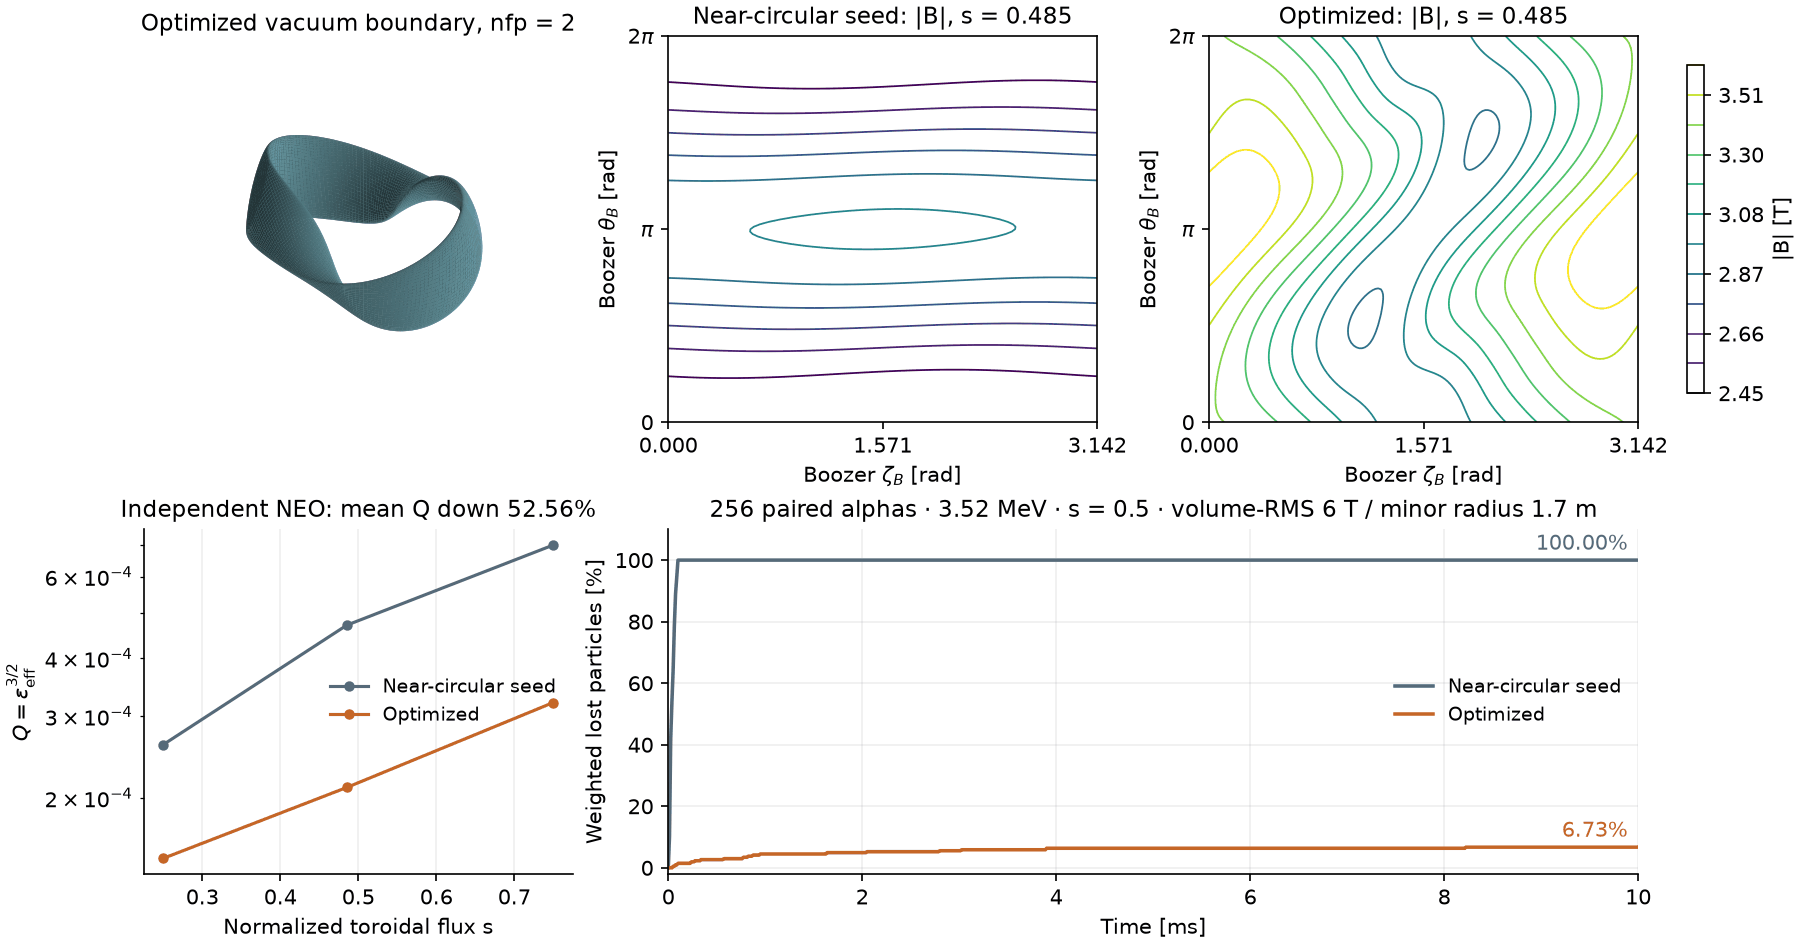
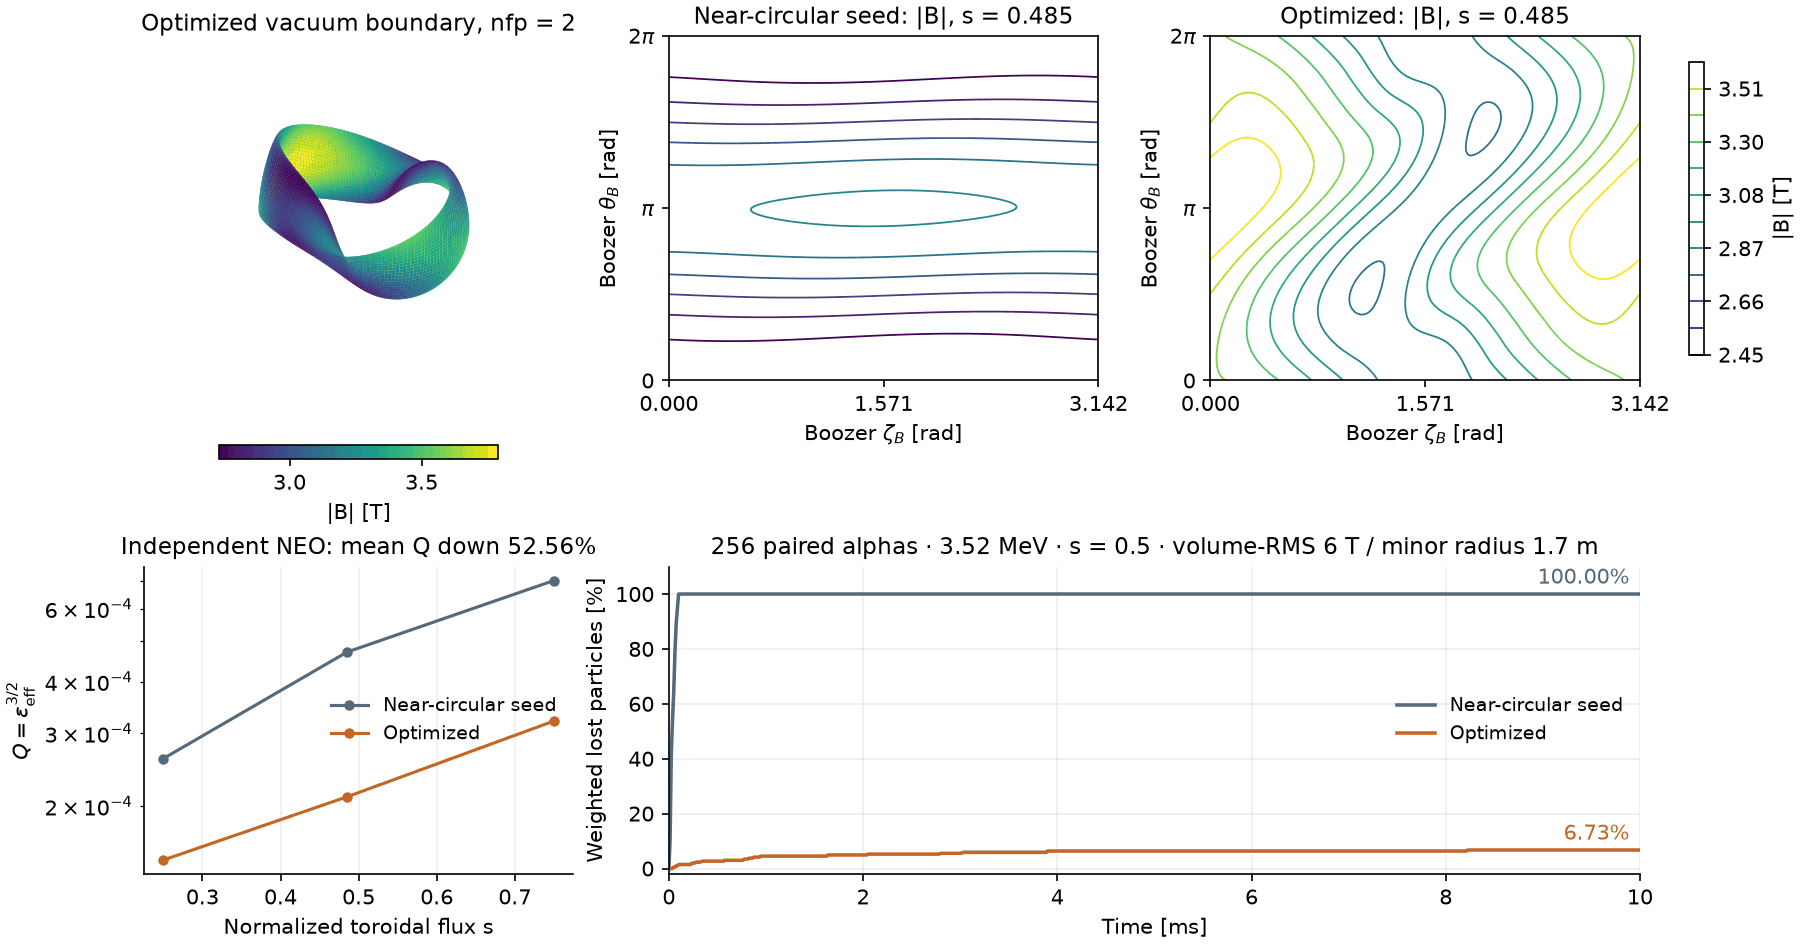
Show all field periods and confinement comparisons in the README

diff --git a/docs/_static/figures/sources/make_low_transport_figure.py b/docs/_static/figures/sources/make_low_transport_figure.py
@@ -53,6 +53,9 @@ def extract(root):
             arrays[key] = f.variables[key].data[-1].copy()
         for key in ("xm", "xn"):
             arrays[key] = f.variables[key].data.copy()
+        arrays["edge_B"] = 1.5*f.variables["bmnc"].data[-1].copy()-.5*f.variables["bmnc"].data[-2].copy()
+        arrays["m_B"] = f.variables["xm_nyq"].data.copy()
+        arrays["n_B"] = f.variables["xn_nyq"].data.copy()
     arrays["source_sha256"] = np.array(json.dumps(hashes, sort_keys=True))
     return arrays
 
@@ -68,8 +71,12 @@ def draw(z):
     R = np.sum(z["rmnc"]*np.cos(phase), axis=-1)
     Z = np.sum(z["zmns"]*np.sin(phase), axis=-1)
     X, Y = R*np.cos(phi), R*np.sin(phi)
-    boundary.plot_surface(X, Y, Z, color="#689ba5", linewidth=0, antialiased=True,
-                          rcount=193, ccount=65, shade=True)
+    B = np.sum(z["edge_B"]*np.cos(theta[..., None]*z["m_B"]-phi[..., None]*z["n_B"]), axis=-1)
+    norm = matplotlib.colors.Normalize(B.min(), B.max())
+    boundary.plot_surface(X, Y, Z, facecolors=plt.cm.viridis(norm(B)), linewidth=0,
+                          rcount=193, ccount=65, shade=False)
+    fig.colorbar(plt.cm.ScalarMappable(norm=norm, cmap="viridis"), ax=boundary,
+                 orientation="horizontal", shrink=.65, pad=0, label="|B| [T]")
     boundary.set_box_aspect((np.ptp(X), np.ptp(Y), np.ptp(Z)))
     boundary.view_init(elev=35, azim=-45)
     boundary.set_axis_off()
@@ -109,10 +116,76 @@ def draw(z):
         ax.spines[["top", "right"]].set_visible(False)
         ax.grid(alpha=.2)
         ax.legend(frameon=False, loc="center right")
+    save(fig, OUT)
+
+
+def save(fig, path):
     fig.canvas.draw()
     Image.fromarray(np.asarray(fig.canvas.buffer_rgba())[..., :3]).quantize(256).save(
-        OUT, lossless=True, method=6)
-    print(f"Wrote {OUT} ({OUT.stat().st_size} bytes)")
+        path, lossless=True, method=6)
+    plt.close(fig)
+    print(f"Wrote {path} ({path.stat().st_size} bytes)")
+
+
+def comparisons(root):
+    """Show every NFP trial and the completed independent family measurements."""
+    from scipy.io import netcdf_file
+
+    fig, axes = plt.subplots(3, 4, figsize=(14, 10), dpi=150, layout="constrained")
+    statuses = ("Targets missed", "NEO improved", "NEO worsened", "NEO improved")
+    theta, phi = np.meshgrid(np.linspace(0, 2*np.pi, 81), np.linspace(0, 2*np.pi, 81), indexing="ij")
+    for col, nfp in enumerate(range(1, 5)):
+        folder = root.parent / "mapped" / f"mirror-nfp{nfp}" / "low_transport"
+        record = json.loads((folder / "summary.json").read_text())
+        selected = "selected_evaluation" in record
+        stem = "trial" if selected else "terminal"
+        picture = folder / (f"{stem}_boundary3d.png" if selected else f"terminal/{stem}_boundary3d.png")
+        axes[0, col].imshow(plt.imread(picture)); axes[0, col].axis("off")
+        axes[0, col].set_title(f"NFP {nfp}: {statuses[col]}")
+        with netcdf_file(folder / f"wout_{stem}.nc", mmap=False) as f:
+            m, n = (f.variables[k].data.copy() for k in ("xm_nyq", "xn_nyq"))
+            coefficients = f.variables["bmnc"].data.copy()
+        row = round((len(coefficients)-1)*.5+.5)
+        B = np.sum(coefficients[row]*np.cos(theta[..., None]*m-phi[..., None]*n/nfp), axis=-1)
+        contour = axes[1, col].contour(phi/nfp, theta, B, levels=14, cmap="viridis", linewidths=.8)
+        axes[1, col].set(xlabel="VMEC toroidal angle", ylabel="VMEC poloidal angle",
+                         title="Mid-radius |B| [T]")
+        fig.colorbar(contour, ax=axes[1, col], shrink=.75)
+        cost = np.array([record["evaluations"][0]["cost"]]+[r["cost"] for r in record["iterations"]])
+        axes[2, col].semilogy(np.arange(len(cost)), cost/cost[0], color="#306d86")
+        axes[2, col].set(xlabel="Accepted iteration", ylabel="Total objective / initial",
+                         title="Optimization history")
+        axes[2, col].grid(alpha=.2)
+    save(fig, OUT.with_name("readme_low_transport_nfp.webp"))
+
+    data = json.loads((root / "summary.json").read_text())["cases"]
+    fig, axes = plt.subplots(1, 2, figsize=(13, 6), dpi=150)
+    fig.subplots_adjust(left=.07, right=.98, top=.86, bottom=.3, wspace=.25)
+    handles, labels, missing = [], [], []
+    for name, label in (("seed4", "Seed4"), ("QA", "QA4"), ("QH", "QH4"),
+            ("QP", "QP4"), ("QI", "QI4"), ("mapped4", "Mapped4"),
+            ("seed2", "Seed2"), ("QA_nfp2", "QA2"), ("mapped2", "Mapped2")):
+        row = data.get(name, {})
+        if not row.get("Q"):
+            missing.append(label+": transport and particles"); continue
+        line, = axes[0].semilogy(row["actual_s"], np.array(row["Q"])**(2/3), "o-", label=label)
+        handles.append(line); labels.append(label)
+        particle = row.get("particles", {})
+        if particle.get("status") == "completed":
+            axes[1].plot(1000*np.array(particle["times_s"]), 100*np.array(particle["weighted_loss_curve"]),
+                         color=line.get_color())
+        else:
+            missing.append(label+": particles")
+    axes[0].set(xlabel="Normalized toroidal flux s", ylabel=r"Effective ripple $\epsilon_{\rm eff}$")
+    axes[1].set(xlabel="Time [ms]", ylabel="Weighted alpha loss [%]", xlim=(0, 10), ylim=(-2, 103))
+    for ax in axes:
+        ax.grid(alpha=.2)
+        ax.spines[["top", "right"]].set_visible(False)
+    fig.suptitle("Transport and particle confinement at aspect ratio 6", fontsize=14)
+    fig.legend(handles, labels, loc="lower center", bbox_to_anchor=(.5, .13), ncol=5, frameon=False)
+    fig.text(.5, .08, "256 paired 3.52 MeV alphas; s=0.5; volume-RMS B=6 T; minor radius=1.7 m", ha="center")
+    fig.text(.5, .04, "Not completed: "+"; ".join(missing), ha="center", fontsize=9)
+    save(fig, OUT.with_name("readme_low_transport_comparison.webp"))
 
 
 if __name__ == "__main__":
@@ -120,3 +193,4 @@ if __name__ == "__main__":
     parser.add_argument("--evidence", type=Path, required=True)
     args = parser.parse_args()
     draw(extract(args.evidence))
+    comparisons(args.evidence)

diff --git a/vmex/core/single_stage.py b/vmex/core/single_stage.py
@@ -26,14 +26,6 @@ def coil_field(coils):
     return lambda points: jax.vmap(field.B)(points.reshape(-1, 3)).reshape(points.shape)
 
 
-def normal_field_rms(coils, surface):
-    """Area-weighted RMS of the coil field's normalized normal component."""
-    field = coil_field(coils)(surface.gamma)
-    normal = jnp.sum(field * surface.unitnormal, axis=2) / jnp.linalg.norm(field, axis=2)
-    weights = surface.area_element / jnp.sum(surface.area_element)
-    return jnp.sqrt(jnp.sum(weights * normal**2))
-
-
 def common_current_scale(coil_B, external_target_B, weights):
     """Area-weighted least-squares common current factor for a fixed target.
 
@@ -112,20 +104,15 @@ class CoilPenalty:
             curvature = jnp.maximum(coils.curvature[:n] / self.curvature_limit - 1, 0)
             gamma, points = coils.gamma, surface.gamma.reshape(-1, 3)
 
-            def pair_distance(i, j):
-                squared = jnp.sum((gamma[i, :, None] - gamma[j, None, :])**2, axis=-1)
-                return jnp.sqrt(jnp.min(squared) + 1e-30)
+            def distance(first, second):
+                return jnp.sqrt(jnp.min(jnp.sum((first[:, None] - second[None, :])**2, axis=-1)) + 1e-30)
 
             pairs = jnp.triu_indices(len(coils), 1)
-            gap = (jnp.max(jnp.maximum(1 - jax.vmap(pair_distance)(*pairs) / self.coil_distance, 0))
+            gap = (jnp.max(jnp.maximum(1 - jax.vmap(lambda i, j: distance(gamma[i], gamma[j]))(*pairs) / self.coil_distance, 0))
                    if len(coils) > 1 else 0.)
 
-            def clearance(curve):
-                squared = jnp.sum((curve[:, None] - points[None, :])**2, axis=-1)
-                return jnp.sqrt(jnp.min(squared) + 1e-30)
-
             surface_gap = jnp.max(jnp.maximum(
-                1 - jax.vmap(clearance)(gamma[:n]) / self.surface_distance, 0))
+                1 - jax.vmap(lambda curve: distance(curve, points))(gamma[:n]) / self.surface_distance, 0))
             return .5 * jnp.asarray([
                 self.length_weight * jnp.mean(length**2),
                 self.curvature_weight * jnp.max(curvature**2),

diff --git a/tests/test_single_stage.py b/tests/test_single_stage.py
@@ -242,17 +242,13 @@ def test_physical_flux_uses_the_full_phi_zero_section_and_positive_cartesian_phi
         ss.toroidal_flux(inp, None)
 
 
-def test_batched_coil_field_preserves_point_shape_and_normal_rms_uses_area_weights(harness, monkeypatch):
+def test_batched_coil_field_preserves_point_shape(harness, monkeypatch):
     monkeypatch.setattr(sys.modules["essos.fields"], "BiotSavart", lambda coils: NS(
         B=lambda point: np.asarray(point) + [0., 0., 1.]))
     monkeypatch.setattr(ss.jax, "vmap", lambda function: lambda points: np.stack([
         function(point) for point in points]))
     points = np.arange(12.).reshape(2, 2, 3)
     np.testing.assert_array_equal(ss.coil_field(harness.Coils())(points), points + [0., 0., 1.])
-    surface = harness.Surface()
-    surface.unitnormal = np.array([[[0., 0., 1.], [1., 0., 0.]]])
-    surface.area_element = np.array([[1., 3.]])
-    assert ss.normal_field_rms(harness.Coils(), surface) == pytest.approx(np.sqrt(.625))
 
 
 def test_total_normal_field_uses_equilibrium_strength_and_the_frozen_precision(monkeypatch):

diff --git a/tools/check_docs_prose.py b/tools/check_docs_prose.py
@@ -86,6 +86,8 @@ GRANDFATHERED_FILES = {
     "figures/readme_interior_field.webp",
     # Reproducible README comparison.
     "figures/readme_low_transport.webp",
+    "figures/readme_low_transport_nfp.webp",
+    "figures/readme_low_transport_comparison.webp",
     "figures/readme_optimization.webp",
     "figures/readme_polish_before_after.webp",
     "figures/readme_polish_plot.webp",

diff --git a/README.md b/README.md
@@ -230,7 +230,9 @@ convergence checks, constraints, scaling and finite-difference verification.
 The infinite-n ideal ballooning mode ([Dewar and Glasser 1983](https://doi.org/10.1063/1.864113),
 [Gaur et al. 2023](https://arxiv.org/abs/2302.07673)) is the eigenproblem along a field line,
 
-$$\frac{d}{d\eta}\Big(g\,\frac{dX}{d\eta}\Big) + c\,X = \lambda\,f\,X,\qquad X(\pm\eta_b)=0,$$
+$$
+\frac{d}{d\eta}\Big(g\,\frac{dX}{d\eta}\Big) + c\,X = \lambda\,f\,X,\qquad X(\pm\eta_b)=0,
+$$
 
 with line bending `g`, pressure and curvature drive `c` and inertia `f > 0`. A line is unstable
 when its largest eigenvalue `λ = (γ a_N/v_A)²` is positive. VMEX discretizes it with finite
@@ -275,61 +277,49 @@ maximum-`J` variants, with scalar-adjoint, SciPy, JAXopt and Optax drivers.
 
 ### Low transport from a near-circular start
 
-`examples/optimization/pwO_optimization.py` starts from an existing near-circular
-two-period seed and adjusts boundary modes 1 then 2, using implicit equilibrium derivatives
-and 15 iterations per stage. Set `NFP` to choose the field-period count.
-The objective combines aspect ratio 6, a signed-transform floor of 0.42,
-a mirror-ratio limit of 0.2, and the normalized mapped contour variance:
+![Two-period boundary colored by magnetic-field strength, Boozer contours, transport and alpha losses](docs/_static/figures/readme_low_transport.webp)
 
-$$f_{\rm map}=\sum_s \frac{w_s}{B_{00,s}^2}\left\langle\operatorname{Var}_\gamma B_s(\gamma,\eta)\right\rangle_\eta.$$
+**Mapped-field optimization** shapes the magnetic wells without imposing quasisymmetry.
+It minimizes the variation of |B| along contours of a squeezed omnigenous mapping,
+following the [PO–pwO construction](https://arxiv.org/abs/2603.12139v1):
 
-The live Boozer mean field `B00` removes the reference-field arrays. An automatic
-initial cost scale sets the contour term's optimization weight. Three equally spaced surface requests
-use the nearest VMEC half-mesh radii, printed by the script.
-The mirror penalty aims 10% below its acceptance limit. These are explicit design
-choices, not a proof of confinement.
+$$
+f_{\mathrm{map}}=\sum_s \frac{w_s}{B_{00,s}^{2}}\left\langle\operatorname{Var}_{\gamma} B_s(\gamma,\eta)\right\rangle_{\eta}.
+$$
 
-We call this **mapped-field low-transport optimization**. Its map follows the
-[PO–pwO construction](https://arxiv.org/abs/2603.12139v1); the fit alone does not
-establish field-line-independent bounce action within each well class or
-compatible well transitions, which are needed to claim pwO.
+The mean field B₀₀ supplies the normalization. Aspect ratio 6, finite rotational
+transform and a mirror limit keep the search away from weak-transform or extreme-mirror solutions.
+The resulting fields are non-QS; piecewise omnigenity has not been established.
 
-```console
-pip install "vmex[neoclassical]"
-python examples/optimization/pwO_optimization.py
-python examples/optimization/pwO_optimization_finite_beta.py
-```
+The two-period result lowers $Q = \epsilon_{\mathrm{eff}}^{3/2}$ by **52.6%** and alpha losses from **100% to 6.73%**.
+The particle comparison uses 256 paired 3.52 MeV alphas over 10 ms at a common
+volume-RMS field of 6 T and minor radius 1.7 m. Its β≈0.5% continuation lowers coarse Q another 26.6%.
 
-Edit the file-level settings to change the run. The vacuum driver writes `low_transport/`;
-the pressure continuation reads `low_transport/input.trial` and writes `low_transport_finite_beta/`.
-Both keep feasible checkpoints and apply a separate NEO transport screen.
+![NFP 1–4 boundaries colored by magnetic-field strength, unfilled field contours and objective histories](docs/_static/figures/readme_low_transport_nfp.webp)
 
-![Optimized 3D boundary, seed and optimized unfilled Boozer field contours, effective-ripple geometry factor, and paired alpha-particle loss curves](docs/_static/figures/readme_low_transport.webp)
+| Field periods | Aspect ratio | Minimum ι | Transport result |
+|---|---:|---:|---|
+| 1 | 7.659 | 0.368 | Aspect and transform targets missed |
+| 2 | 6.003 | 0.494 | Refined mean Q −52.6% |
+| 3 | 6.001 | 0.442 | Coarse mean Q +191%; rejected |
+| 4 | 6.001 | 0.438 | Refined mean Q −27.5% |
 
-Independent NS103/M7N7 equilibria and Boozer-band-32 NEO calculations reduce
-mean `Q = ε_eff^(3/2)` by **52.56%** for the two-period candidate, with aspect
-ratio 6.003 and minimum signed transform 0.494. At a common volume-RMS field
-of 6 T and minor radius 1.7 m, 256 paired 3.52 MeV alphas launched at `s=0.5`
-give 10 ms weighted losses of **100% → 6.73%** (256/256 → 17/256 launches).
-No integration failed; the 95% bootstrap interval is 3.75–9.99%. These
-single-surface, collisionless measurements do not establish reactor confinement. [Figure generator](docs/_static/figures/sources/make_low_transport_figure.py);
-its simulation inputs are external, with no transport dataset bundled here.
+![Effective ripple and alpha losses compared with QA, QH, QP and the initial seeds; unfinished checks are marked](docs/_static/figures/readme_low_transport_comparison.webp)
 
-The same 30-step budget at NFP1 did not reach the aspect/iota constraints.
-NFP3 passed geometry checks but worsened coarse mean Q by 191%; NFP4 improved
-independently refined mean Q by 27.46%. A small mapped residual alone is
-therefore insufficient: retain only candidates that pass the separate NEO screen.
-The two-period β≈0.5% continuation improves coarse mean Q by another 26.6% in
-three iterations; finite-beta particles have not been checked.
+QH4 and QA2 have lower effective ripple. The mapped two-period field loses fewer alphas
+than QA2 (6.73% versus 24.12%); its difference from QH4 (7.97%) is unresolved within
+sampling uncertainty. All candidates target the same aspect ratio and iota floor;
+actual transforms differ, and only the mapped runs impose the mirror ceiling.
 
-Stage-2 fitting of the four-period vacuum candidate gives two unique coils,
-0.674% dense normal-field RMS error and a converged cold free-boundary solve
-within 4.4 mm of the target. Coil clearance and spacing exceed half the minor
-radius, and maximum curvature times minor radius is 0.697. These geometric checks do not qualify an engineering design.
-`examples/optimization/single_stage_optimization_pwO.py` uses these coil controls
-for a finite-beta prefit (`vmex[coils,freeb,neoclassical]`). Its NFP2 finite-beta prefit remains unqualified (4.06% normal-field error,
-9.77% pressure-jump RMS); the acceptance gate stops it before joint optimization.
-See the [workflow](docs/reference/optimization.rst) and [physics](docs/explanation/confinement.rst).
+Two unique coils reproduce the four-period vacuum boundary with 0.674% normal-field
+RMS error; a cold free-boundary solve stays within 4.4 mm of the target.
+The two-period finite-beta coil fit still misses its field-error limits and stops before joint optimization.
+
+Examples: [vacuum](examples/optimization/pwO_optimization.py),
+[finite beta](examples/optimization/pwO_optimization_finite_beta.py),
+[single stage](examples/optimization/single_stage_optimization_pwO.py).
+[Physics](docs/explanation/confinement.rst) · [workflow](docs/reference/optimization.rst) ·
+[figure generator](docs/_static/figures/sources/make_low_transport_figure.py).
 
 ### Free boundary with coils
 

diff --git a/docs/reference/optimization.rst b/docs/reference/optimization.rst
@@ -726,3 +726,11 @@ The main entry points are :func:`vmex.core.optimize.make_problem`,
 :class:`vmex.core.problem.Evaluation`, and
 :class:`vmex.core.monitoring.OptimizationMonitor`, and
 :class:`vmex.core.monitoring.EquilibriumReporter`.
+
+ESSOS supplies coil curves, Biot–Savart fields and integrated distance penalties.
+``vmex.core.single_stage`` shares the VMEX adjoint and verification workflow
+between the QA and mapped-field examples. Its normalized geometry option
+penalizes the worst sampled gap and curvature; ESSOS's integrated losses use
+a different measure. Length is an upper bound here; ESSOS's length loss instead
+penalizes deviations on both sides of its target. The flux quadrature retains VMEC's
+positive-phi sign convention.

diff --git a/docs/reference/objectives.rst b/docs/reference/objectives.rst
@@ -349,6 +349,11 @@ When both terms use the same surfaces and pitch,
 :class:`~vmex.core.maxj.JInvariantQIAndMaximumJResidual` concatenates their
 cost-weighted rows after one shared Boozer transform.
 
+The constructed-QI interpolation fixes the first well wall at its prescribed
+maximum field. This removes roundoff amplification at nearly coincident nodes
+and preserves its derivative. Existing ``ConstructedQIResidual`` optimizers
+use the correction without script changes; it does not change the QI target.
+
 Mapped-field contour variance
 -----------------------------
 
